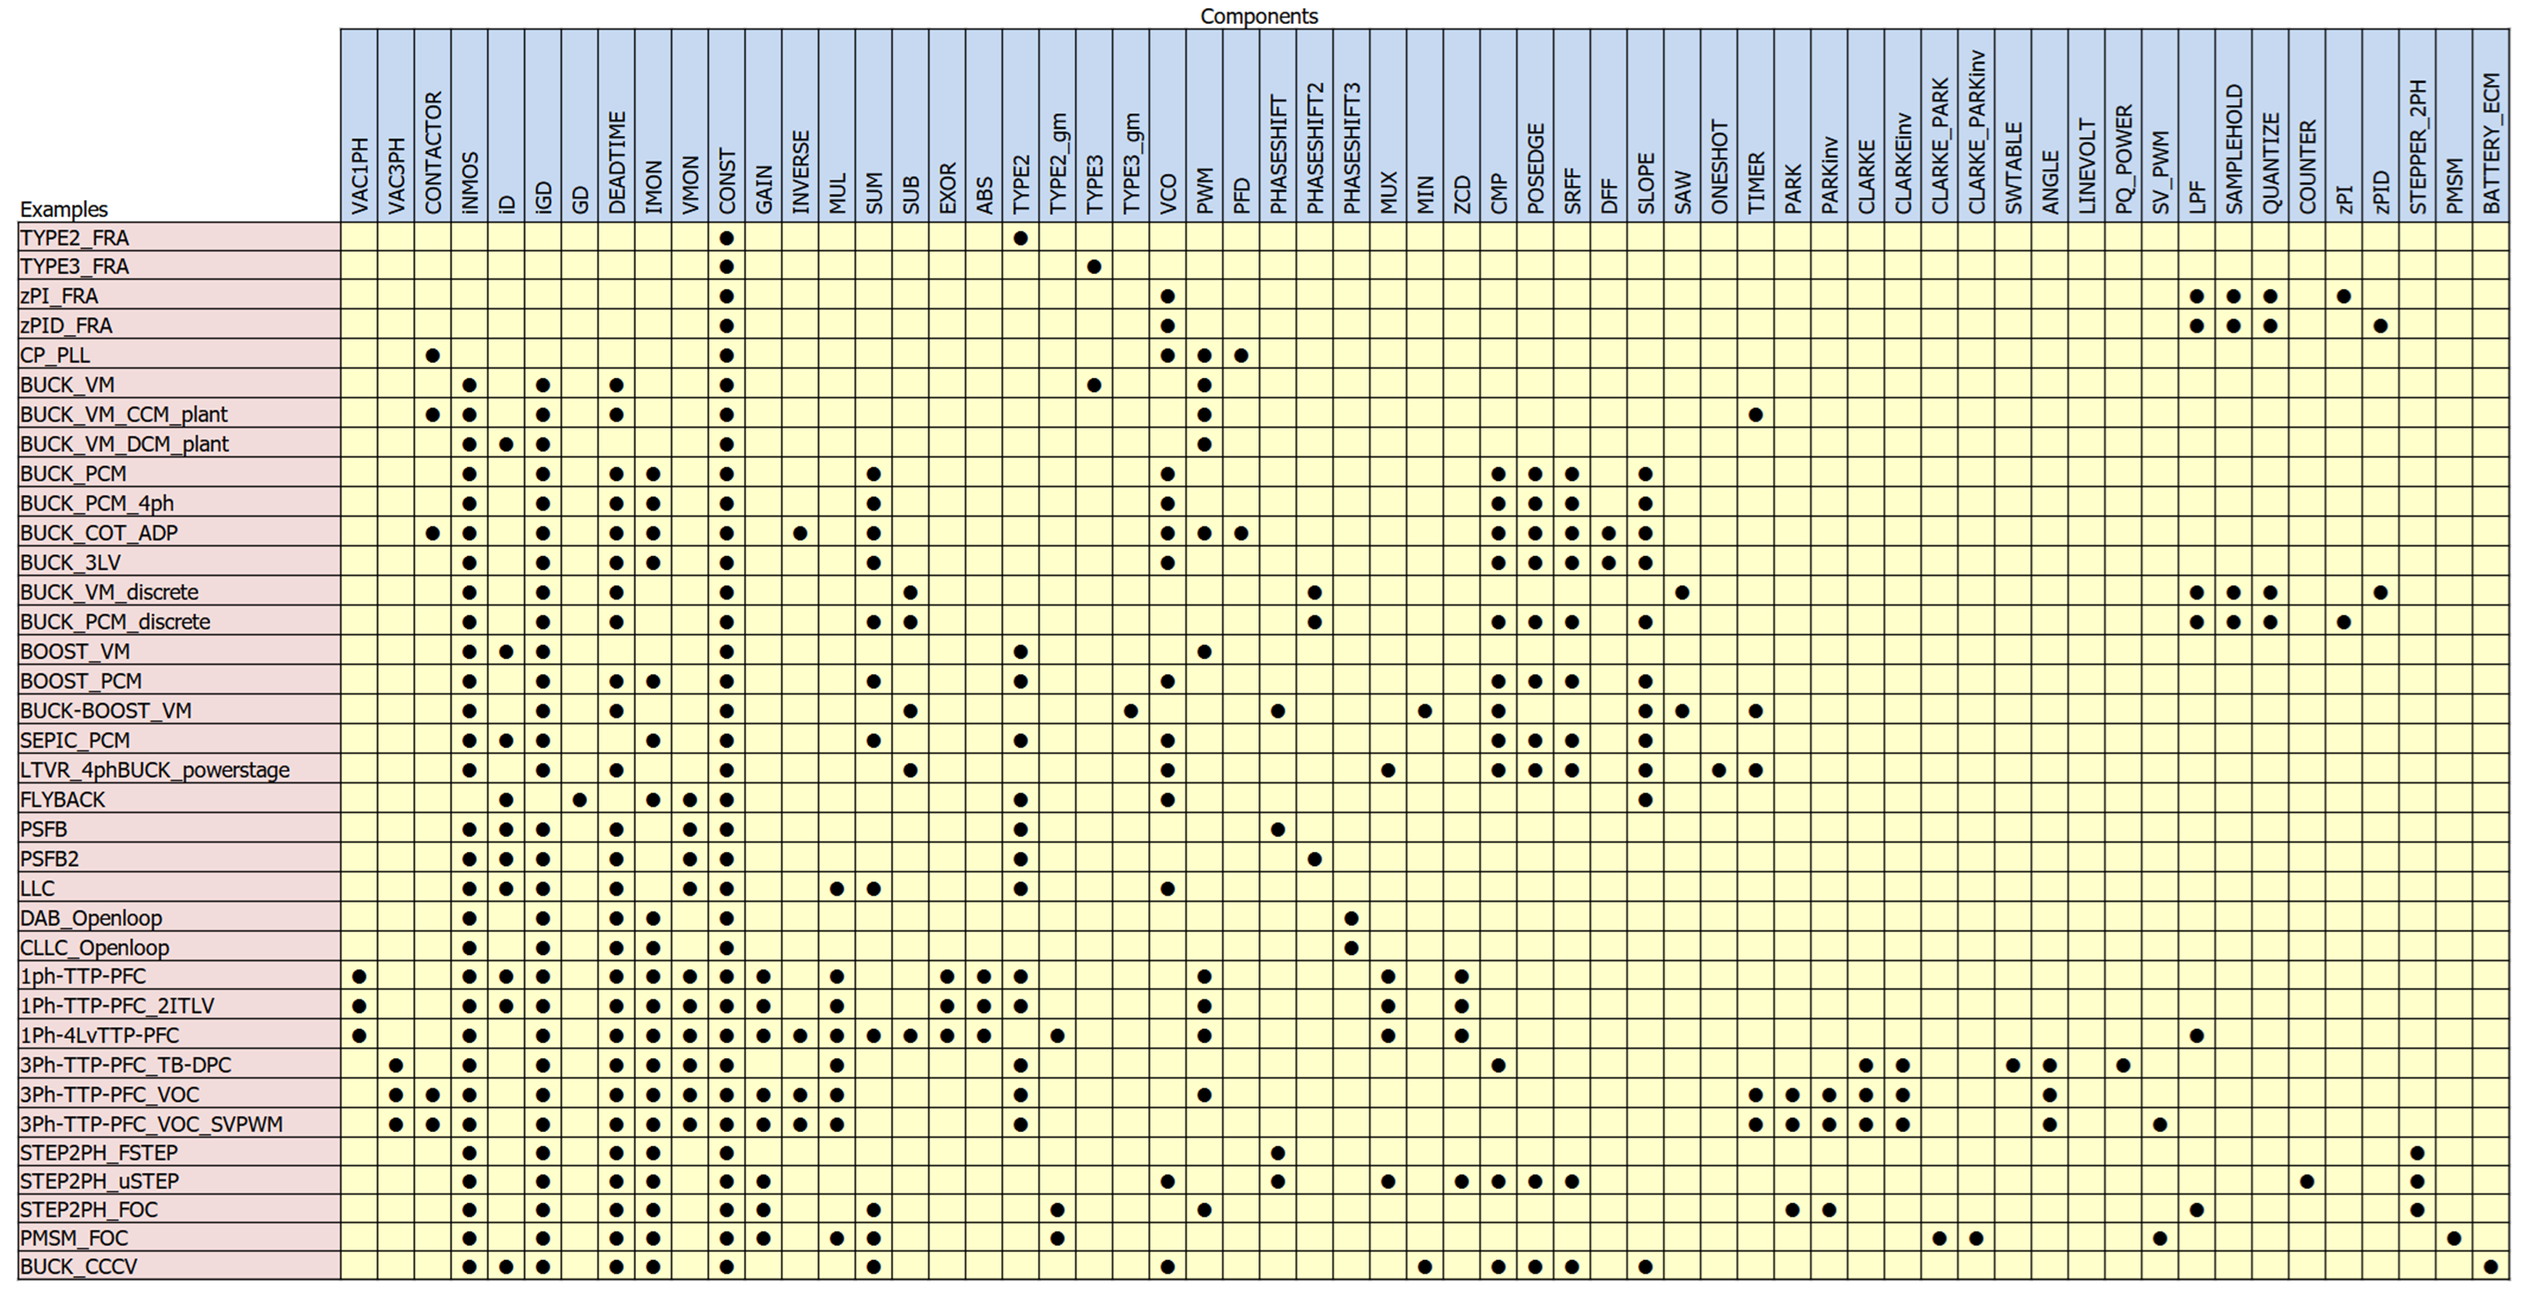
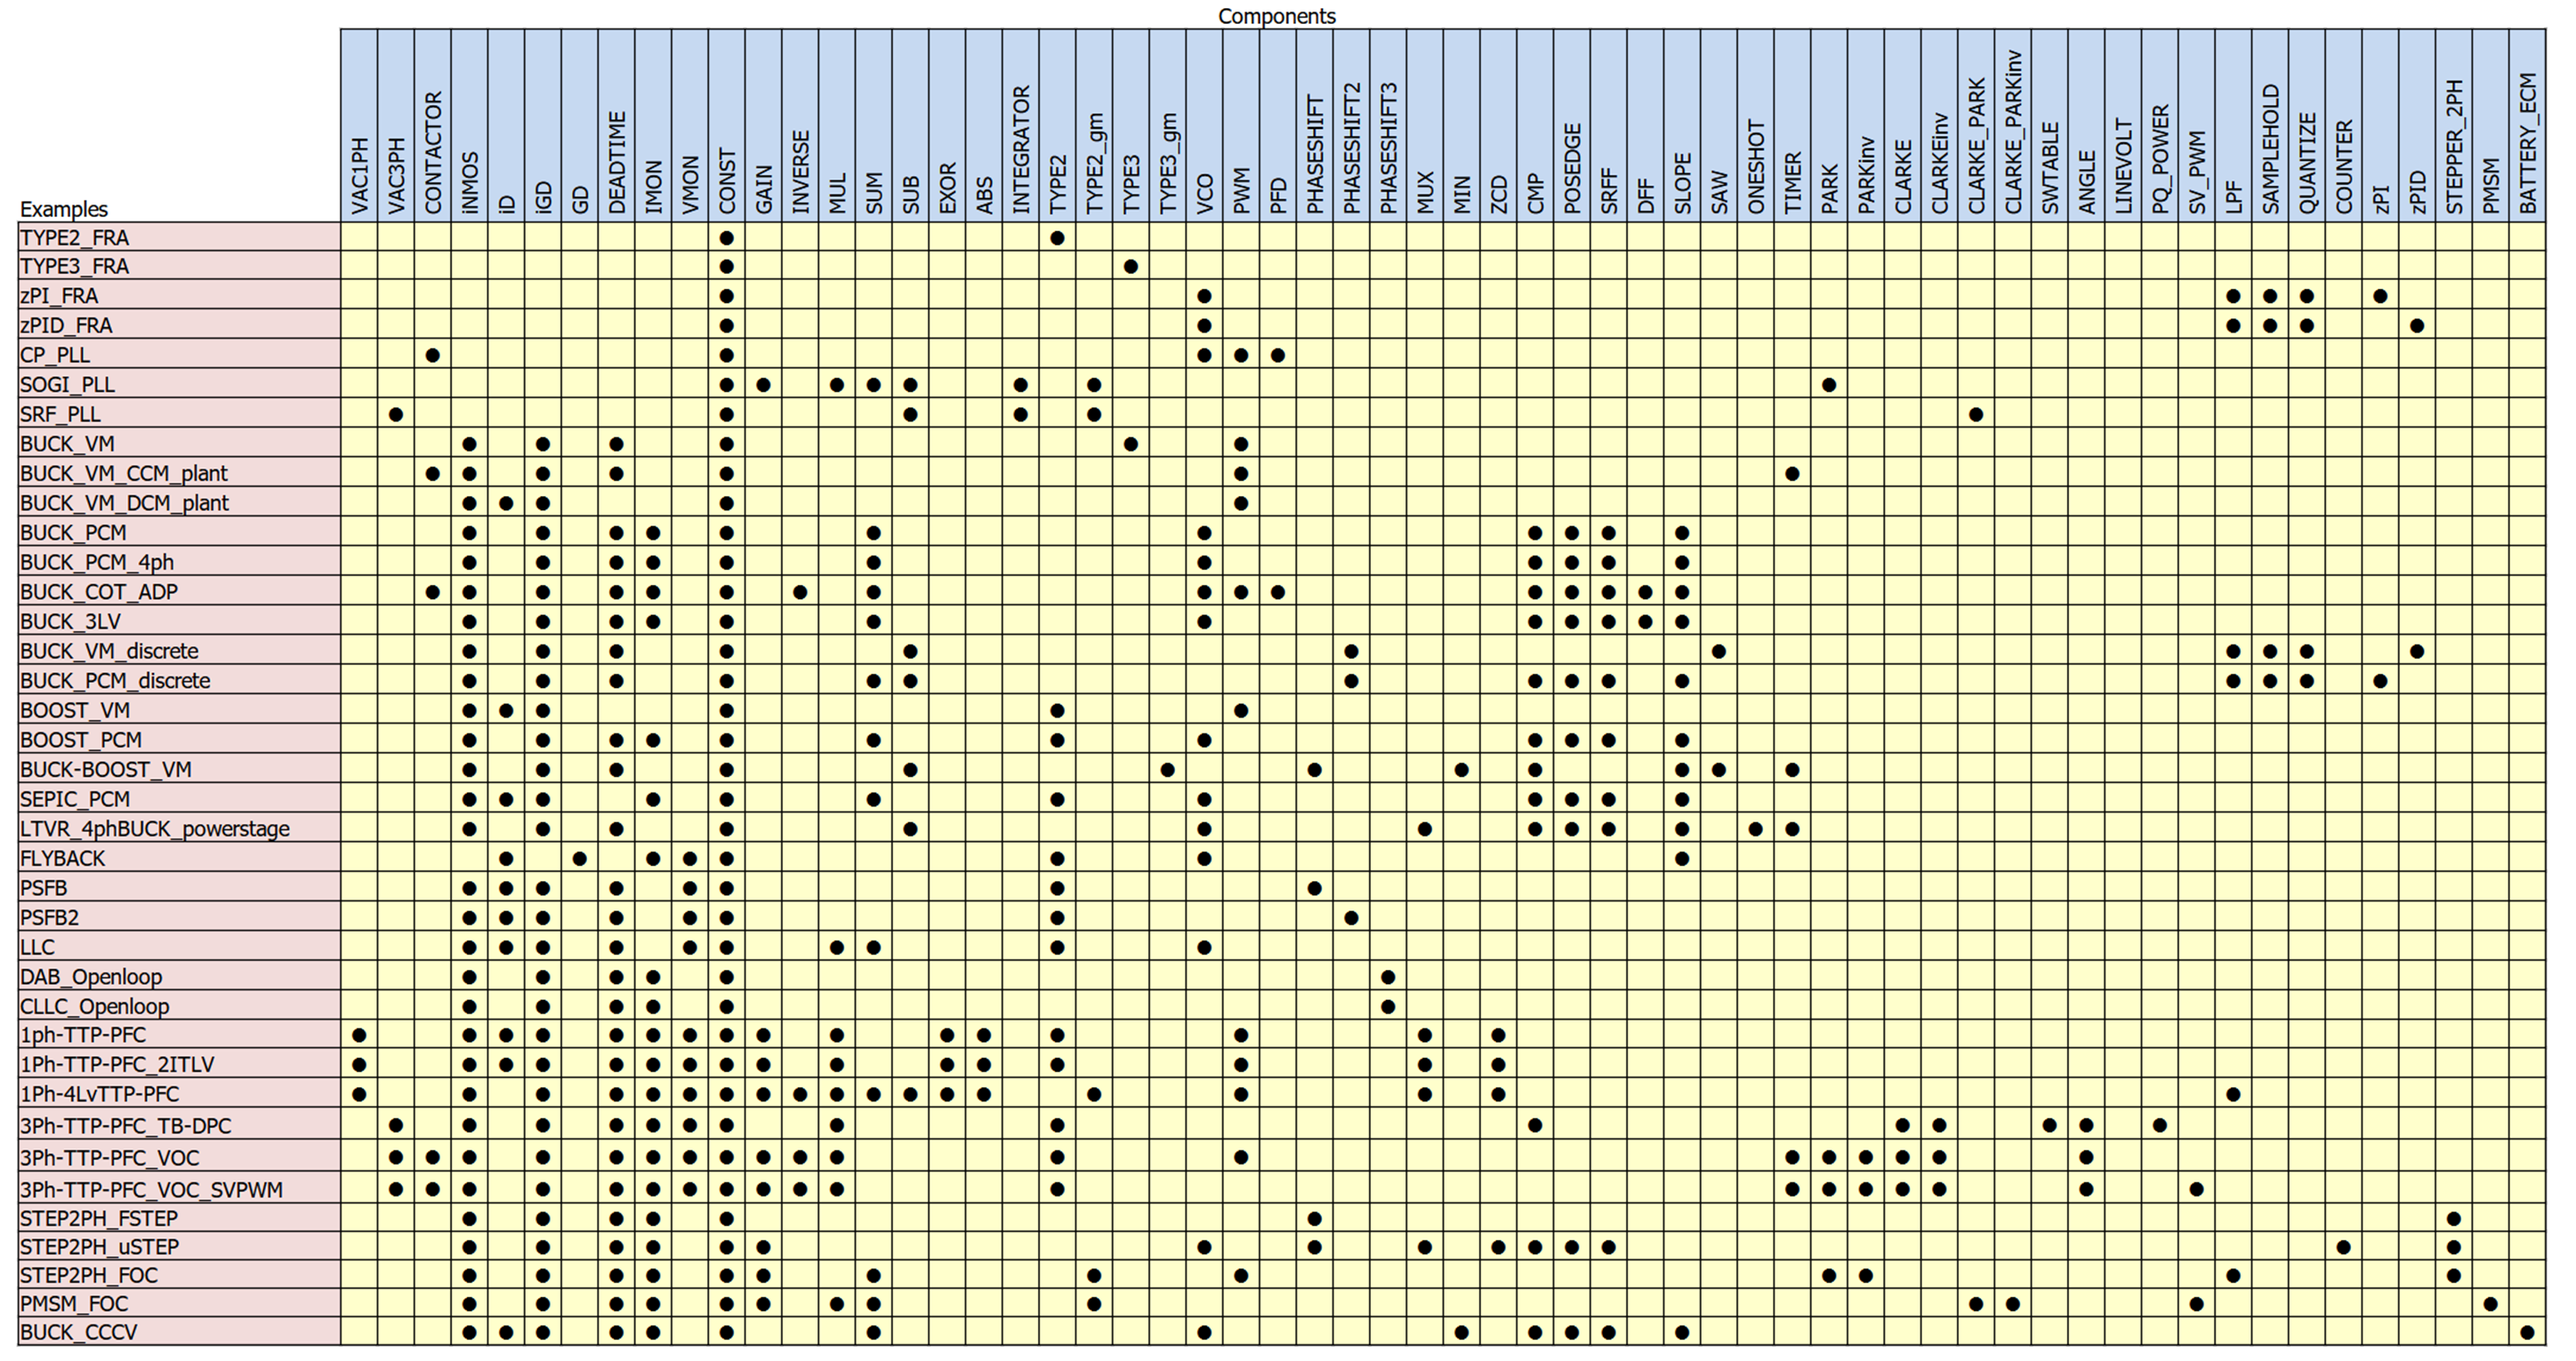
update gallery.md and examplelist.png

diff --git a/Gallery.md b/Gallery.md
@@ -77,6 +77,21 @@ Textbook charge-pump PLL for clock and phase synchronization.
 example/01_ControlAndCompensation/03_ControlBuildingBlocks/CP_PLL/CP_PLL.png
 )
 ---
+#### SOGI PLL (Second-Order Generalized Integrator PLL)
+Single-phase PLL using a Second-Order Generalized Integrator to generate orthogonal signals, with d-axis zero regulation for phase locking.
+
+![LTspice schematic: SOGI PLL (Second-Order Generalized Integrator PLL)](
+example/01_ControlAndCompensation/03_ControlBuildingBlocks/SOGI_PLL/SOGI_PLL.png
+)
+---
+#### SRF PLL (Synchronous Reference Frame PLL)
+Three-phase PLL based on Clarke/Park transforms, using q-axis regulation to track grid phase and frequency.
+
+![LTspice schematic: SRF PLL (Synchronous Reference Frame PLL)](
+example/01_ControlAndCompensation/03_ControlBuildingBlocks/SRF_PLL/SRF_PLL.png
+)
+---
+
 
 ## DC-DC Converters
 
